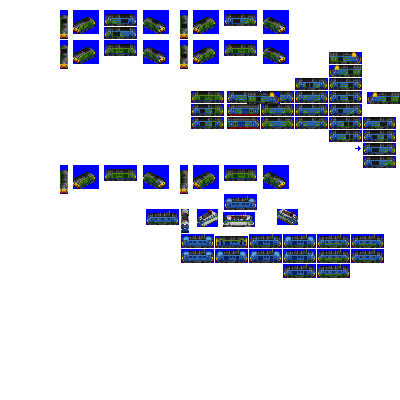
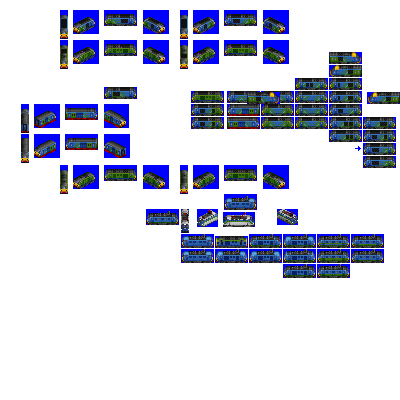
Change: revised sprites complete for Revolution

diff --git a/src/vehicles/revolution.py b/src/vehicles/revolution.py
@@ -13,7 +13,7 @@ def main(roster_id):
                             pantograph_type='z-shaped-single',
                             gen=6,
                             intro_date_offset=-2,  # introduce earlier than gen epoch by design
-                            sprites_complete=False)
+                            sprites_complete=True)
 
     consist.add_unit(type=ElectroDieselEngineUnit,
                      weight=95,
